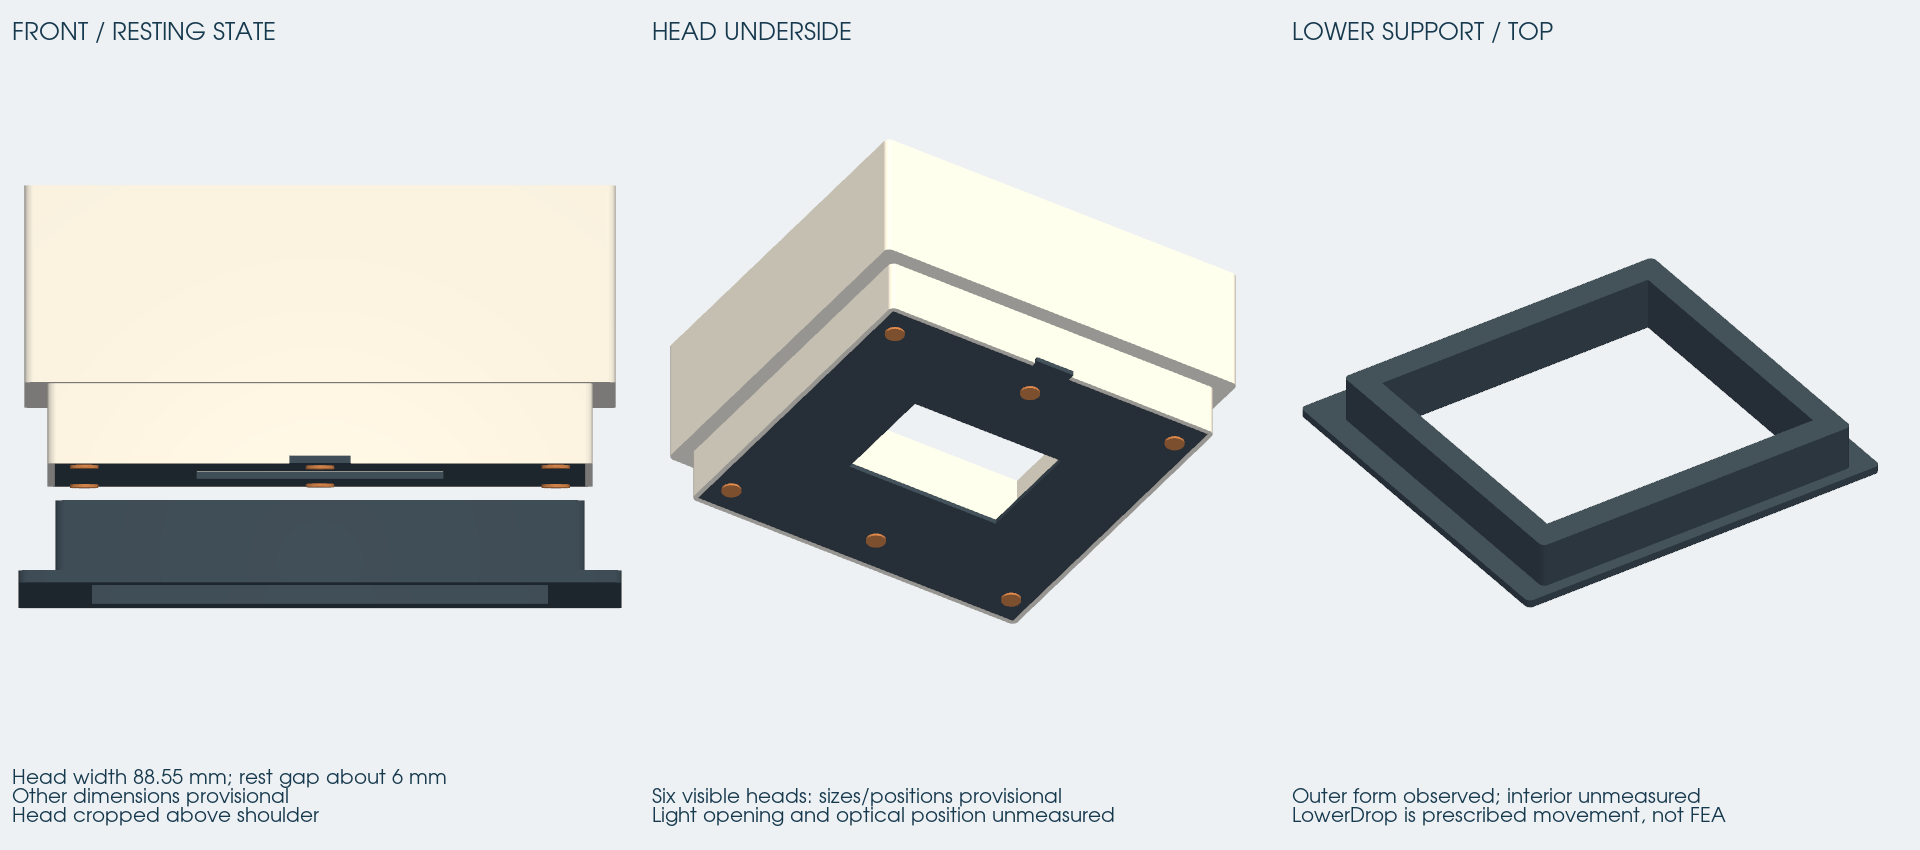
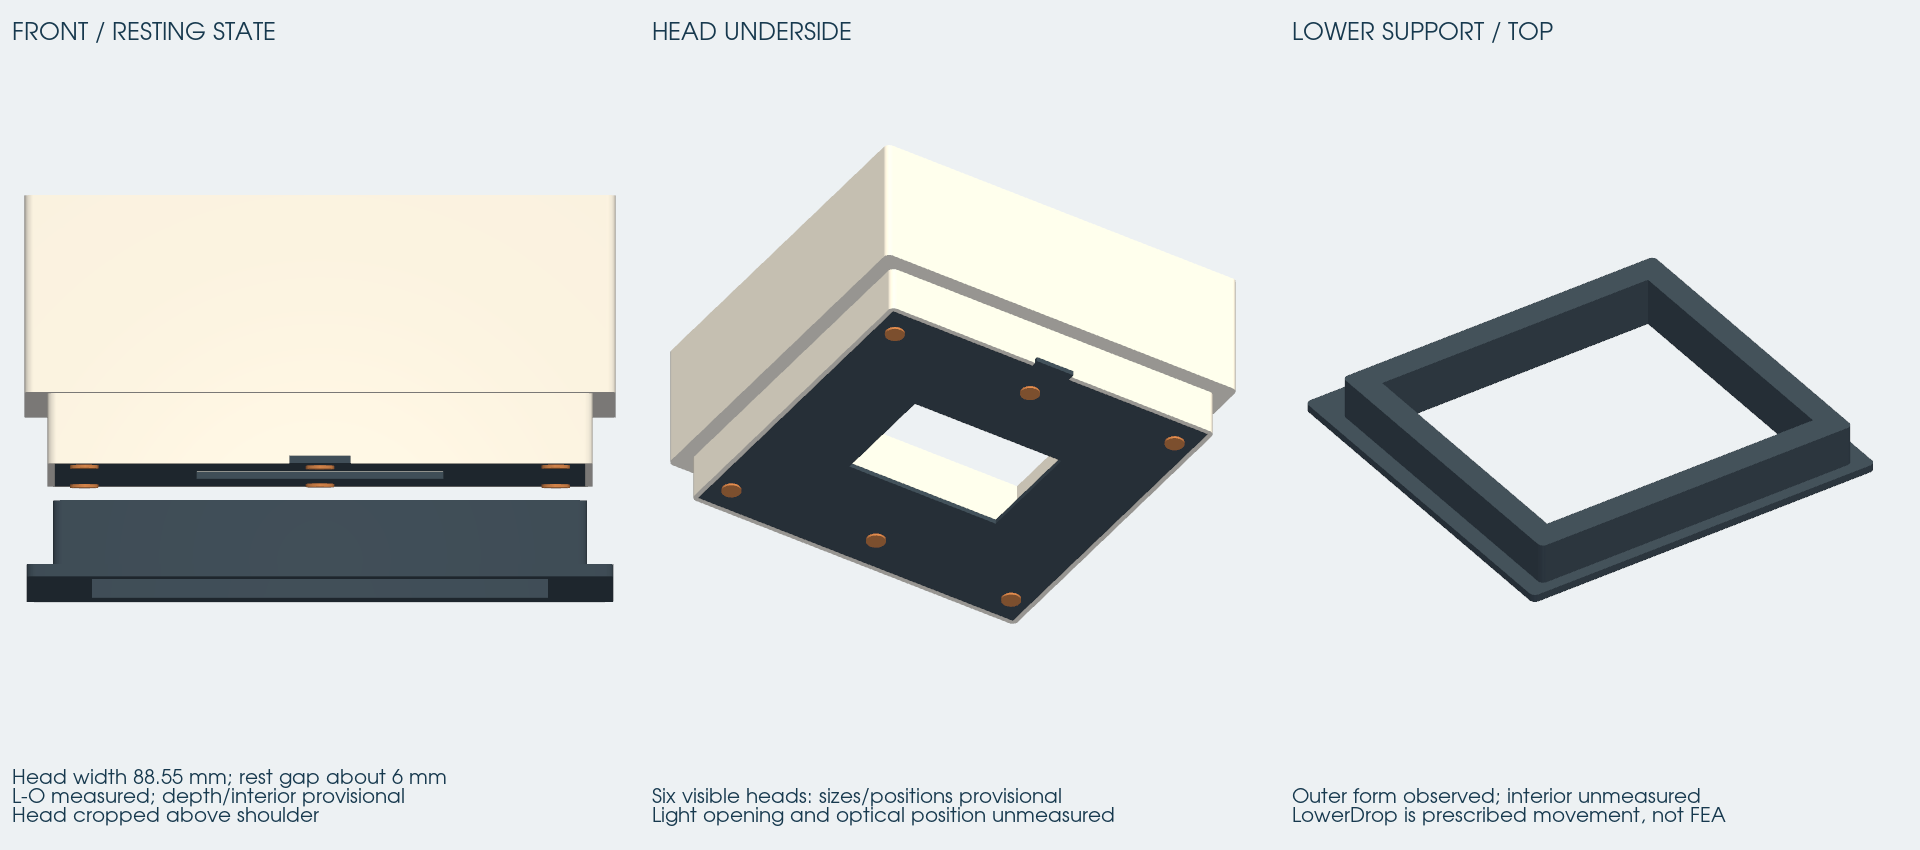
Apply measured C35 front profile and use packaged FreeCAD in CI

diff --git a/cad/durst_c35_interface/render.py b/cad/durst_c35_interface/render.py
@@ -64,7 +64,7 @@ def render(folder, target):
         plot.camera.parallel_scale = scale
         plot.add_text(title, position=(12, 805), font_size=12, color="#17394e")
         note = [
-            "Head width 88.55 mm; rest gap about 6 mm\nOther dimensions provisional\nHead cropped above shoulder",
+            "Head width 88.55 mm; rest gap about 6 mm\nL-O measured; depth/interior provisional\nHead cropped above shoulder",
             "Six visible heads: sizes/positions provisional\nLight opening and optical position unmeasured",
             "Outer form observed; interior unmeasured\nLowerDrop is prescribed movement, not FEA",
         ][i]

diff --git a/docs/durst-c35-interface/README.md b/docs/durst-c35-interface/README.md
@@ -2,24 +2,24 @@
 
 This model replaces the *assumptions* behind the earlier two-ledge sketch with the visible head neck, black underside plate, six screw heads, and the raised lower support with its wider flange. It is a partial reconstruction for future carrier studies, not a dimensionally complete OEM model or a print replacement for the enlarger.
 
-The two machine dimensions supplied so far are **88.55 mm external neck width** and **approximately 6 mm unloaded vertical gap**. The closed original carrier is approximately **6.15 mm** high. The user reports that the lower support moves when inserting it. These are separate observations: they do not establish spring stiffness, insertion force, local screw clearances, or the film plane.
+The measured front profile uses **88.55 mm external neck width**, **11.4 mm neck height (L)**, **86.7 mm lower support width (M)**, **10.5 mm lower support height (N)** and **95.3 mm flange width (O)**. The unloaded vertical gap is **approximately 6 mm**. The closed original carrier is approximately **6.15 mm** high. The user reports that the lower support moves when inserting it. These are separate observations: they do not establish spring stiffness, insertion force, local screw clearances, or the film plane.
 
-![Next front-view measurements](measurements-L-O.png)
+![Front-view measurement endpoints](measurements-L-O.png)
 
-## Next measurements: L-O
+## Recorded front measurements: L-O
 
 These labels are new and do not reuse the earlier A-K sheet. The previous **C / assumed support ledges is withdrawn**. B-head means the outside width of the narrow head, not an inside slot width.
 
-| Label | Measure in mm | Exact endpoints |
-| --- | --- | --- |
-| L | Narrow white band height | From underside of the wider white shoulder to the flat underside of the narrow white band; exclude slot and protruding screws. |
-| M | Raised black support width | Outside left to outside right of the raised black section directly below the slot; exclude its wider thin flange. |
-| N | Raised black support height | Top contact surface down to **top of flange**, excluding flange thickness. Use the straight part away from rounded corners. |
-| O | Black flange overall width | Its leftmost to rightmost outside edges, immediately above the bellows. |
+| Label | Reading (mm) | Measurement | Exact endpoints |
+| --- | --- | --- | --- |
+| L | 11.4 | Narrow white band height | From underside of the wider white shoulder to the flat underside of the narrow white band; exclude slot and protruding screws. |
+| M | 86.7 | Raised black support width | Outside left to outside right of the raised black section directly below the slot; exclude its wider thin flange. |
+| N | 10.5 | Raised black support height | Top contact surface down to **top of flange**, excluding flange thickness. Use the straight part away from rounded corners. |
+| O | 95.3 | Black flange overall width | Its leftmost to rightmost outside edges, immediately above the bellows. |
 
-Send `L=..., M=..., N=..., O=...`. If a pointer is ambiguous, a photo of caliper placement is more useful than guessing. The annotation is an imagegen overlay on IMG_1078; the original photo and actual caliper readings remain authoritative. It must not be used to extract numerical dimensions. The exact built-in imagegen prompt is saved in [annotation-prompt.txt](annotation-prompt.txt).
+These readings were supplied on 2026-11-01 and are applied to the model. The original annotation retains its request labels as an endpoint guide. It is an imagegen overlay on IMG_1078; the original photo and actual caliper readings remain authoritative. It must not be used to extract numerical dimensions. The exact built-in imagegen prompt is saved in [annotation-prompt.txt](annotation-prompt.txt).
 
-After L-O: measure head and lower-support depths, their front/back offset, flange thickness, actual lower opening/contact surfaces, optical opening and front-to-optical position. Then locate each screw centre and protrusion, any physical insertion stop, and the original carrier's rim spacing/film seat height. Those later dimensions are not being inferred from the front photo.
+Next: measure head and lower-support depths, their front/back offset, flange thickness, actual lower opening/contact surfaces, optical opening and front-to-optical position. Then locate each screw centre and protrusion, any physical insertion stop, and the original carrier's rim spacing/film seat height. Those later dimensions are not being inferred from the front photo.
 
 ## Evidence and editable parameters
 
